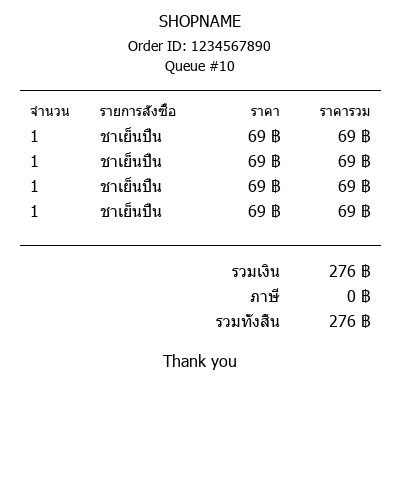
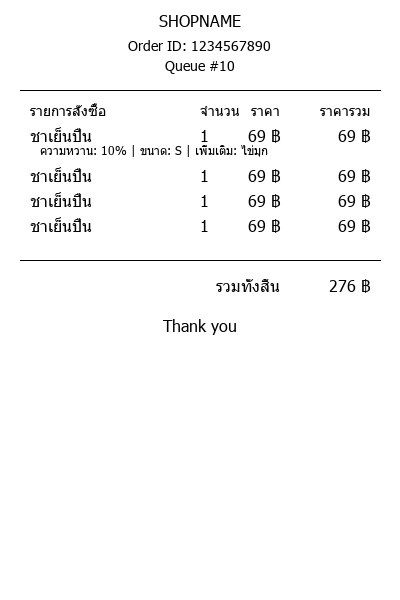
detail

diff --git a/slip_image.py b/slip_image.py
@@ -5,7 +5,7 @@ from datetime import datetime
 def create_receipt_image(data):
     # Create a new image with white background
     width = 400
-    height = 500  # Increased height to accommodate more content
+    height = 600  # Increased height to accommodate more content
     image = Image.new('RGB', (width, height), 'white')
     draw = ImageDraw.Draw(image)
     
@@ -13,6 +13,7 @@ def create_receipt_image(data):
         # Load fonts
         font = ImageFont.truetype('C:\\Windows\\Fonts\\tahoma.ttf', 16)
         small_font = ImageFont.truetype('C:\\Windows\\Fonts\\tahoma.ttf', 14)
+        detail_font = ImageFont.truetype('C:\\Windows\\Fonts\\tahoma.ttf', 12)
         
         # Draw store name
         draw.text((width//2, 20), data['store_name'], font=font, fill='black', anchor='mm')
@@ -27,43 +28,49 @@ def create_receipt_image(data):
         
         # Draw headers
         y_pos += 20
-        draw.text((30, y_pos), "จำนวน", font=small_font, fill='black', anchor='lm')
-        draw.text((100, y_pos), "รายการสั่งซื้อ", font=small_font, fill='black', anchor='lm')
+        draw.text((30, y_pos), "รายการสั่งซื้อ", font=small_font, fill='black', anchor='lm')
+        draw.text((200, y_pos), "จำนวน", font=small_font, fill='black', anchor='lm')
         draw.text((width-120, y_pos), "ราคา", font=small_font, fill='black', anchor='rm')
         draw.text((width-30, y_pos), "ราคารวม", font=small_font, fill='black', anchor='rm')
         
         # Draw order items
         y_pos += 25
         for item in data['order']:
-            quantity, name, unit_price = item
+            quantity = item[0]
+            name = item[1]
+            unit_price = item[2]
             total = quantity * unit_price
             
-            # Draw item details
-            draw.text((30, y_pos), str(quantity), font=font, fill='black', anchor='lm')
-            draw.text((100, y_pos), name, font=font, fill='black', anchor='lm')
+            # Draw main item details
+            draw.text((30, y_pos), name, font=font, fill='black', anchor='lm')
+            draw.text((200, y_pos), str(quantity), font=font, fill='black', anchor='lm')
             draw.text((width-120, y_pos), f"{unit_price} ฿", font=font, fill='black', anchor='rm')
             draw.text((width-30, y_pos), f"{total} ฿", font=font, fill='black', anchor='rm')
+            
+            # Draw additional details if available
+            if len(item) > 3:
+                details = []
+                if len(item) > 3 and item[3]:  # Sweetness
+                    details.append(f"ความหวาน: {item[3]}")
+                if len(item) > 4 and item[4]:  # Size
+                    details.append(f"ขนาด: {item[4]}")
+                if len(item) > 5 and item[5]:  # Addon
+                    details.append(f"เพิ่มเติม: {item[5]}")
+                
+                if details:
+                    detail_text = " | ".join(details)
+                    y_pos += 15
+                    draw.text((40, y_pos), detail_text, font=detail_font, fill='black', anchor='lm')
+            
             y_pos += 25
         
         # Draw separator line
         y_pos += 10
         draw.line([(20, y_pos), (width-20, y_pos)], fill='black', width=1)
         
-        # Draw subtotal
+        # Calculate total
         y_pos += 25
-        subtotal = sum(item[0] * item[2] for item in data['order'])
-        draw.text((width-120, y_pos), "รวมเงิน", font=font, fill='black', anchor='rm')
-        draw.text((width-30, y_pos), f"{subtotal} ฿", font=font, fill='black', anchor='rm')
-        
-        # Draw tax
-        y_pos += 25
-        tax = data.get('tax', 0)
-        draw.text((width-120, y_pos), "ภาษี", font=font, fill='black', anchor='rm')
-        draw.text((width-30, y_pos), f"{tax} ฿", font=font, fill='black', anchor='rm')
-        
-        # Draw total
-        y_pos += 25
-        total = subtotal + tax
+        total = sum(item[0] * item[2] for item in data['order'])
         draw.text((width-120, y_pos), "รวมทั้งสิ้น", font=font, fill='black', anchor='rm')
         draw.text((width-30, y_pos), f"{total} ฿", font=font, fill='black', anchor='rm')
         
@@ -87,12 +94,11 @@ if __name__ == "__main__":
         "order_id": "1234567890",
         "queue_number": "10",
         "order": [
-            [1, "ชาเย็นปืน", 69],
+            [1, "ชาเย็นปืน", 69, "10%", "S", "ไข่มุก"],
             [1, "ชาเย็นปืน", 69],
             [1, "ชาเย็นปืน", 69],
             [1, "ชาเย็นปืน", 69]
-        ],
-        "tax": 21
+        ]
     }
     
     # Create receipt image
